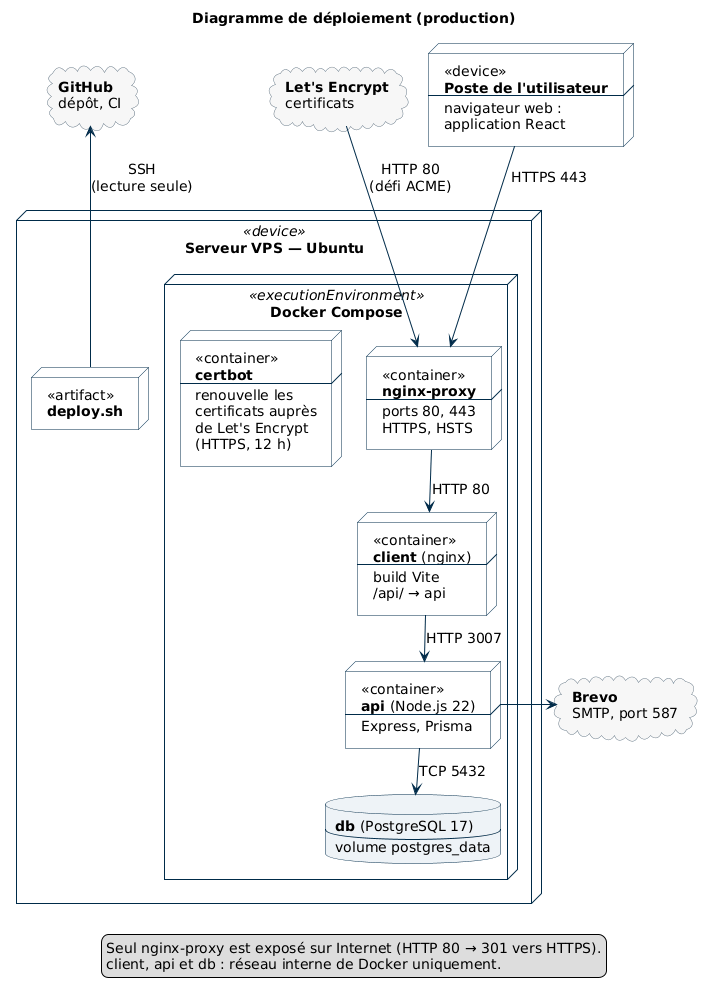
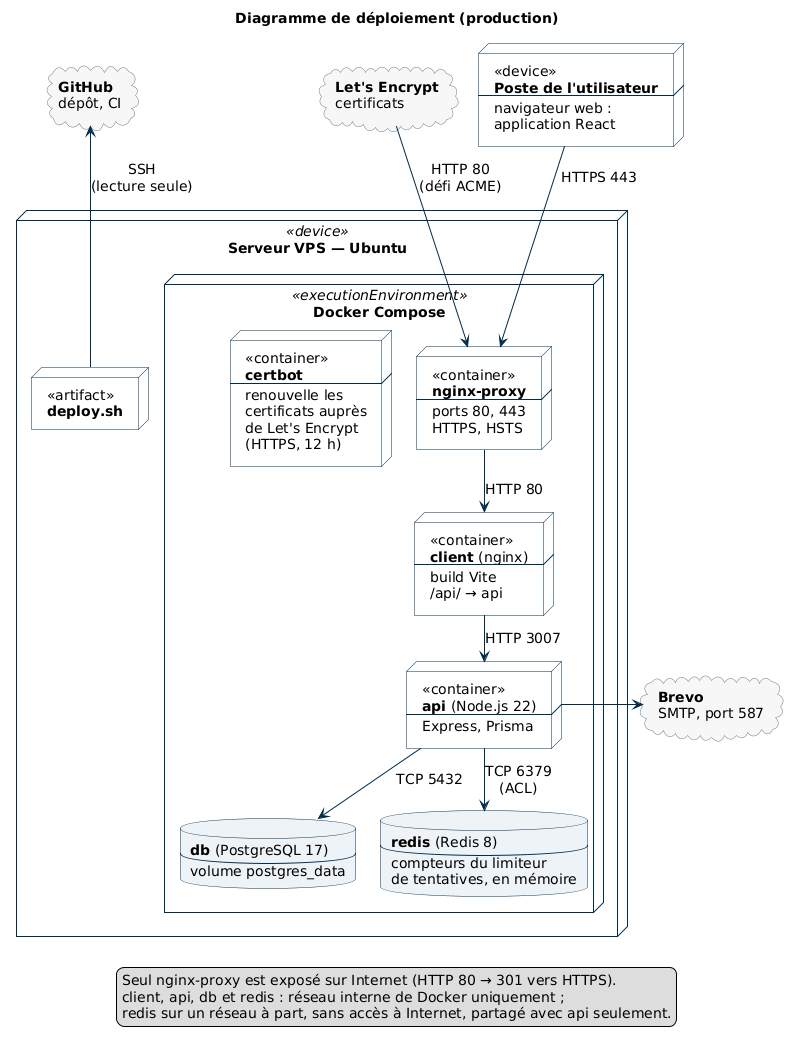
chore(infra): run Redis in dev, prod, CI and load test
- docker-compose (dev and prod): redis service (redis:8.10.3-alpine)
  started by redis/start.sh, on an internal network shared with the API
  only, no published port, authenticated healthcheck; the API waits for
  it and gets REDIS_URL and REDIS_PASSWORD (required in .env).
- CI: throwaway Redis started with the same image, script and ACL
  before the API tests; job timeout of 15 minutes; ShellCheck also
  covers redis/*.sh.
- Load test: throwaway redis-load service.
- deploy.sh: checks REDIS_PASSWORD is set in .env without reading its
  value, and waits for Redis to be healthy after the restart; three new
  test scenarios (24 scenarios, 82 checks).
- docker:start runs node with exec so it receives Docker's SIGTERM and
  shuts down cleanly (it was killed after the timeout before).
- Docs: deployment procedure for 0.9.6 with read-only pre-checks and
  rollback, Redis key model and access security, tests, README,
  CHANGELOG, deployment diagram.

Changed region(s): [[0.0309, 0.0, 0.9874, 0.997], [0.0, 0.2181, 0.216, 0.9035]]

diff --git a/docs/tests.md b/docs/tests.md
@@ -2,14 +2,14 @@
 
 Ce document décrit comment l'application est testée : la stratégie, la façon de lancer les tests, ce que chaque test couvre (matrice), les tests de sécurité et le cahier de recette.
 
-**État au 10/11/2026** : 168 tests automatisés de l'application et 21 scénarios du script de déploiement, tous verts, lancés sur chaque pull request par la CI.
+**État au 09/11/2026 (0.9.6)** : 173 tests automatisés de l'application et 24 scénarios du script de déploiement, tous verts, lancés sur chaque pull request par la CI.
 
 | Ensemble | Outil | Tests |
 |---|---|---|
 | API — unitaires (dont fuzzing) | Vitest + fast-check | 25 |
-| API — intégration (dont sécurité et fuzzing) | Vitest + Supertest + PostgreSQL | 92 |
+| API — intégration (dont sécurité et fuzzing) | Vitest + Supertest + PostgreSQL + Redis | 97 |
 | Client — composants, services, fonctions | Vitest + Testing Library (jsdom) | 51 |
-| Script de déploiement | Bash, doubles de `git`, `docker` et `curl` | 21 scénarios (69 vérifications) |
+| Script de déploiement | Bash, doubles de `git`, `docker` et `curl` | 24 scénarios (82 vérifications) |
 | Recette (tests d'acceptation) | navigateur, cahier ci-dessous | 9 parcours |
 | Charge | k6, image de production de l'API, en local | 2 scénarios |
 
@@ -33,7 +33,8 @@ Ce document décrit comment l'application est testée : la stratégie, la façon
 - base dédiée `lapince_test`, jamais la base de dev : la suite refuse de démarrer si `DATABASE_URL` ne contient pas `_test` ([tests/setup/integration.ts](../apps/api/tests/setup/integration.ts)) ;
 - aucun email réel : le transporteur SMTP est remplacé par un double dans tous les fichiers ;
 - chaque fichier supprime les comptes qu'il a créés (et leurs données, en cascade) ;
-- emails de test uniques (horodatés) : les fichiers ne se gênent pas entre eux.
+- emails de test uniques (horodatés) : les fichiers ne se gênent pas entre eux ;
+- compteurs du limiteur dans un vrai Redis, sous un préfixe tiré au hasard pour chaque fichier (`rl:test:<uuid>:`, [tests/setup/rate-limit-prefix.ts](../apps/api/tests/setup/rate-limit-prefix.ts)) : les fichiers tournent en parallèle depuis la même adresse sans partager de compteur ; les clés expirent seules, aucune suppression (jamais de `FLUSHALL`).
 
 ---
 
@@ -53,11 +54,13 @@ echo "CREATE DATABASE lapince_test;" | docker compose exec -T db sh -c 'psql -U 
 docker compose exec api npm run test:db:setup      # migrations + seed des catégories
 ```
 
+Les tests d'intégration utilisent aussi Redis (service `redis`, `REDIS_URL` et `REDIS_PASSWORD` du conteneur `api`), sous leurs propres préfixes : ils ne touchent pas aux compteurs du développement.
+
 Le code est copié dans l'image au build : après une modification, `docker compose up -d --build api` (ou `client`) avant de relancer les tests, ou `docker compose watch` pendant le développement.
 
 ### Test de charge
 
-En local seulement, jamais en production : l'**image de production** de l'API sur une base jetable `lapince_load_test`, et k6 1.4.0 ([apps/api/tests/load](../apps/api/tests/load)). Deux scénarios successifs de 70 s (montée à 50 utilisateurs virtuels, palier, descente), une seule session :
+En local seulement, jamais en production : l'**image de production** de l'API sur une base jetable `lapince_load_test` et un Redis jetable, et k6 1.4.0 ([apps/api/tests/load](../apps/api/tests/load)). Deux scénarios successifs de 70 s (montée à 50 utilisateurs virtuels, palier, descente), une seule session :
 
 | Scénario | Ce qu'il éprouve | Requêtes | Erreurs | Latence médiane | p95 | p99 |
 |---|---|---|---|---|---|---|
@@ -65,6 +68,8 @@ En local seulement, jamais en production : l'**image de production** de l'API su
 | `categories_differentes` | usage courant : chacun sur sa catégorie | 59 519 dépenses | 0 | 57 ms | **62 ms** | 65 ms |
 
 Mesure du 10/11/2026 sur le poste de développement (Docker Desktop, Windows 11). Seuils : moins de 1 % d'erreurs et tous les contrôles verts dans les deux scénarios ; p95 sous 500 ms pour l'usage courant. Tous respectés.
+
+Rejoué le 09/11/2026 avec Redis (0.9.6 : image de production, Redis jetable lancé par le même script qu'en production) : 63 143 requêtes, 0 erreur, tous les contrôles verts ; p95 de 65 ms pour l'usage courant, 851 ms pour le pire cas. Résultats équivalents : ces routes ne passent pas par le limiteur, seule la connexion initiale l'utilise.
 
 - **Exactitude sous charge** : à la fin, une seule alerte, au dépassement exact au centime (6 160,00 € = 6 170 dépenses de 1 € − 10 € de budget). Le verrou par utilisateur et par catégorie tient.
 - **Pire cas** : les écritures sur un même couple utilisateur-catégorie passent l'une après l'autre, par conception (environ 89 par seconde). Une file de 50 requêtes attend donc environ une demi-seconde. Une personne n'ajoute pas 50 dépenses à la seconde : la latence de ce scénario est rapportée, sans seuil.
@@ -75,10 +80,10 @@ Rejouer le test, depuis la racine du dépôt :
 ```bash
 L="-f docker-compose.yml -f apps/api/tests/load/compose.load.yml --profile load"
 echo "CREATE DATABASE lapince_load_test;" | docker compose exec -T db sh -c 'psql -U $POSTGRES_USER -d $POSTGRES_DB'
-docker compose $L up -d --build --no-deps api-load              # migrations + seed, puis l'API
+docker compose $L up -d --build --no-deps redis-load api-load   # Redis jetable ; migrations + seed, puis l'API
 docker compose $L exec api-load node tests/load/prepare-user.ts  # utilisateur vérifié
 docker compose $L run --rm --no-deps k6                         # résumé : apps/api/tests/load/results/
-docker compose $L rm -sf api-load
+docker compose $L rm -sf api-load redis-load
 echo "DROP DATABASE lapince_load_test;" | docker compose exec -T db sh -c 'psql -U $POSTGRES_USER -d $POSTGRES_DB'
 ```
 
@@ -109,10 +114,10 @@ Dans l'API : middlewares 97 %, validateurs 95 %, services 81 %, contrôleurs 70 
 | Job | Étapes |
 |---|---|
 | Formatage | Prettier sur tout le dépôt |
-| API | `npm ci` → **audit des dépendances** (`npm audit --omit=dev --audit-level=high`) → client Prisma → types → **unitaires** → migrations + seed sur une base PostgreSQL 17 jetable → **intégration** → build |
+| API | Redis jetable (même image, même script et mêmes ACL qu'en production) → `npm ci` → **audit des dépendances** (`npm audit --omit=dev --audit-level=high`) → client Prisma → types → **unitaires** → migrations + seed sur une base PostgreSQL 17 jetable → **intégration** → build |
 | Client | `npm ci` → **audit des dépendances** → lint → **tests** → types et build |
 | Images de production | construction des Dockerfiles de prod |
-| Script de déploiement | ShellCheck → tests du script ([deploy/deploy.test.sh](../deploy/deploy.test.sh)) |
+| Script de déploiement | ShellCheck (scripts de déploiement et de Redis) → tests du script ([deploy/deploy.test.sh](../deploy/deploy.test.sh)) |
 
 Les branches `dev` et `main` sont protégées : GitHub refuse le merge tant que tous ces jobs ne sont pas verts.
 
@@ -132,7 +137,7 @@ Chemins relatifs à `apps/api/tests/integration/` (API, intégration), `apps/api
 |---|---|---|---|---|
 | **Inscription** | — | `auth/register` (compte non vérifié, email envoyé, doublon 409, mot de passe faible 400) ; `auth/register-rate-limit` ; `validation-messages` (message sous le bon champ) ; `auth/email-case` (minuscules, doublon de casse refusé) | `RegisterForm` (confirmation différente refusée sans appel, erreur générale) | P1 |
 | **Vérification de l'email** | — | `auth/register` (jeton émis) ; `auth/session-tokens` (seule l'empreinte du jeton en base, lien à usage unique, jeton en double dans l'adresse → 400) | `VerifyEmailPage` (sans jeton, jeton accepté, jeton refusé) | P1 |
-| **Connexion, déconnexion, sessions** | — | `auth/login-rate-limit-per-ip` (un compteur par visiteur derrière les proxys) ; `auth/multi-device-sessions` ; `auth/session-limit` (5 sessions max) ; `auth/session-tokens` (seule l'empreinte du jeton en base, jeton déjà utilisé refusé, 10 rafraîchissements simultanés → une seule session) ; `auth/cookies-production` (`Secure`, `SameSite=Lax`, `HttpOnly`) ; `auth/email-case` (connexion en majuscules) | `apiClient` (401 → rafraîchissement → requête rejouée, un seul rafraîchissement pour deux 401) ; `lib/bfcache` (page privée non réaffichée après déconnexion) | P2 |
+| **Connexion, déconnexion, sessions** | — | `auth/login-rate-limit-per-ip` (un compteur par visiteur derrière les proxys) ; `auth/rate-limit-redis` (compteur créé dans Redis avec une durée de vie de 15 min, `Retry-After`, connexion réussie non comptée sans effacer les échecs, compteur partagé par deux instances de l'API) ; `auth/rate-limit-redis-down` (Redis coupé : requêtes servies, jamais 429 ni 500, incident journalisé) ; `auth/multi-device-sessions` ; `auth/session-limit` (5 sessions max) ; `auth/session-tokens` (seule l'empreinte du jeton en base, jeton déjà utilisé refusé, 10 rafraîchissements simultanés → une seule session) ; `auth/cookies-production` (`Secure`, `SameSite=Lax`, `HttpOnly`) ; `auth/email-case` (connexion en majuscules) | `apiClient` (401 → rafraîchissement → requête rejouée, un seul rafraîchissement pour deux 401) ; `lib/bfcache` (page privée non réaffichée après déconnexion) | P2 |
 | **Mot de passe oublié** | — | `auth/password-reset` (réponse identique compte connu ou non, lien 30 min, seul le hash du jeton en base, usage unique, sessions fermées, lien expiré, mot de passe faible) | — | P3 |
 | **Profil et compte (paramètres)** | — | `users/profile-reauth` (mot de passe actuel exigé pour changer mot de passe ou email, sessions fermées) ; `users/account-deletion` (compte et toutes ses données supprimés en cascade, session fermée, données d'un autre intactes, 401 sans session) ; `auth/email-case` ; `validation-messages` | — | P4 |
 | **Dépenses et revenus** | — | `transactions/security` ; `transactions/description` (intitulé facultatif) ; `transactions/order` (ordre stable, même jour) ; `transactions/date-filter` (période avec début et fin, début seul, fin seul) ; `amounts` (au centime, < 10 milliards) ; `validation-messages` | `transactionApi` (montants convertis, pagination) ; `lib/transaction` (libellé) ; `lib/sort` ; `AmountInputs` (saisie au centime) | P5 |
@@ -156,7 +161,9 @@ Chemins relatifs à `apps/api/tests/integration/` (API, intégration), `apps/api
 | Montant valide qui ferait déborder un calcul | `budgets/alert-consistency` | deux dépenses maximales → 201 et alerte exacte (19 999 999 999,97 €) ; dépassement au-delà de la borne de la base → 400 explicite, rien n'est enregistré |
 | Image arbitraire en photo de profil (pistage, contenu choisi par un tiers) | `users/avatar` | adresse étrangère, `javascript:`, paramètres ajoutés → 400, à l'inscription comme au profil ; seul l'avatar DiceBear construit par le client est accepté |
 | Navigation au clavier (RGAA) | `CategorySelect`, `TransactionSheet`, `AlertPopup` (client) | aucun élément masqué atteignable avec Tab (liste de catégories fermée, feuille des transactions fermée : `inert`) ; feuille ouverte au clavier ; Échap referme la liste ; contour de focus visible partout (règle globale) |
-| Force brute | `auth/login-rate-limit-per-ip`, `auth/register-rate-limit` | 429 au-delà de la limite, par visiteur |
+| Force brute | `auth/login-rate-limit-per-ip`, `auth/register-rate-limit`, `auth/rate-limit-redis` | 429 au-delà de la limite, par visiteur, avec le temps restant (`Retry-After`) ; compteur commun à toutes les instances de l'API, conservé quand elle redémarre |
+| Contournement du limiteur en se connectant à son propre compte | `auth/rate-limit-redis` | une connexion réussie ne compte pas, mais n'efface pas les échecs : après 9 échecs et 1 succès, il reste 9 échecs comptés, et le 11e essai est refusé |
+| Panne du stockage des compteurs | `auth/rate-limit-redis-down` | Redis coupé : l'application reste utilisable (aucun 429 ni 500), chaque incident est journalisé |
 | Prise de contrôle du compte | `users/profile-reauth` | mot de passe actuel exigé ; sessions fermées après changement |
 | Énumération des comptes | `auth/password-reset` | même réponse que l'email existe ou non |
 | Vol des jetons en base | `auth/password-reset`, `auth/session-tokens` | seule l'empreinte SHA-256 des jetons est stockée (réinitialisation, session, confirmation d'email) ; liens à usage unique |
@@ -171,7 +178,8 @@ Chemins relatifs à `apps/api/tests/integration/` (API, intégration), `apps/api
 **Contre-épreuves** (dans le conteneur seulement, fichiers restaurés ensuite → verts) :
 - 30/10/2026 : filtre par utilisateur retiré du service des dépenses et contrôle d'audience retiré du middleware → 4 tests de `transactions/security` rouges ;
 - 31/10/2026 : jeton de session présenté non consommé lors de la rotation → « jeton déjà utilisé » et « rafraîchissements simultanés » rouges ;
-- 01/11/2026 : suppression du compte neutralisée dans le contrôleur → « supprime le compte et toutes ses données » rouge (l'utilisateur existe encore).
+- 01/11/2026 : suppression du compte neutralisée dans le contrôleur → « supprime le compte et toutes ses données » rouge (l'utilisateur existe encore) ;
+- 09/11/2026 : `skipSuccessfulRequests` retiré du limiteur de connexion → « ne compte pas une connexion réussie » rouge (10 échecs comptés au lieu de 9) ; `passOnStoreError` à `false` → « Redis indisponible » rouge (500 au lieu de 400). Avant le passage à Redis, 4 des 5 tests de `auth/rate-limit-redis*` étaient rouges (compteur absent de Redis, deux instances qui comptent chacune de leur côté, 429 quand Redis est coupé).
 
 ---
 

diff --git a/docs/deploiement-serveur.md b/docs/deploiement-serveur.md
@@ -21,12 +21,14 @@ En résumé :
 ```
 Internet ──► nginx-proxy (:80, :443) ──► client (nginx, fichiers du build Vite)
                  │                          └── /api/ ──► api (:3007) ──► db (PostgreSQL)
+                 │                                            └──────────► redis (réseau interne à part)
                  └── /.well-known/acme-challenge/ ◄── certbot (renouvellement HTTPS)
 ```
 
 | Service | Rôle |
 |---|---|
 | `db` | PostgreSQL 17, données dans le volume `postgres_data` |
+| `redis` | Redis 8 : compteurs du limiteur de tentatives de l'API (connexion, inscription, session, mot de passe oublié). Sur un réseau Docker interne, partagé avec `api` seulement, sans accès à Internet ; aucun port publié. Un seul utilisateur, `lapince_app`, limité aux commandes du limiteur et aux clés `rl:*` ; `default` désactivé ([redis/start.sh](../redis/start.sh)). Aucune persistance : un redémarrage remet les compteurs à zéro (fenêtres de 15 min à 1 h) |
 | `api` | API compilée (`node dist/…`). Au démarrage : `prisma migrate deploy` (applique les migrations versionnées non encore jouées), puis seed des catégories |
 | `client` | nginx qui sert le front et relaie `/api/` vers `api` |
 | `nginx-proxy` | Seul service exposé (ports 80 et 443). HTTP → HTTPS, `www` → domaine nu. Recharge sa configuration toutes les 6 h pour servir un certificat renouvelé |
@@ -51,9 +53,19 @@ DATABASE_URL=postgresql://<POSTGRES_USER>:<POSTGRES_PASSWORD>@db:5432/<POSTGRES_
 FRONTEND_URL=https://mehdicherki.fr
 ALLOWED_ORIGINS=https://mehdicherki.fr
 VITE_API_BASE_URL=/api
+REDIS_PASSWORD=<valeur générée, voir ci-dessous>
 ```
 
 Les ports locaux (`*_LOCAL_PORT`) ne servent pas en prod : seul `nginx-proxy` est exposé.
+
+`REDIS_PASSWORD` (depuis la 0.9.6) : mot de passe de l'utilisateur Redis `lapince_app`, propre au serveur, jamais réutilisé ailleurs. Le générer sur le serveur, sans l'afficher, puis l'ajouter au `.env` :
+
+```bash
+printf 'REDIS_PASSWORD=%s\n' "$(openssl rand -base64 32)" >> .env
+grep -c '^REDIS_PASSWORD=.' .env   # 1 : présent une seule fois (la valeur n'est pas affichée)
+```
+
+Sans lui, aucune commande `dc` ne démarre (« REDIS_PASSWORD manquant dans .env ») et `deploy.sh` s'arrête dès ses préconditions. Seul Redis et l'API le lisent : Redis l'écrit au démarrage dans un fichier d'ACL lisible par son seul utilisateur, jamais sur la ligne de commande. `REDIS_URL` n'est pas dans le `.env` : `redis://redis:6379`, fixé dans `docker-compose.prod.yml`.
 
 > Ce document décrit le serveur **existant**. L'installation complète d'un nouveau serveur (Docker, premier certificat) n'est pas décrite ici, car elle n'a pas été rejouée depuis la mise en place.
 
@@ -75,12 +87,12 @@ cd /opt/lapince
 
 | Étape | Ce que fait le script | Arrêt si |
 |---|---|---|
-| 1. Préconditions | dossier, branche `main`, aucune modification locale, base démarrée ; liste les commits à déployer ; regarde si la base est inscrite aux migrations | une condition manque (ou rien à déployer : sortie normale) |
+| 1. Préconditions | dossier, branche `main`, aucune modification locale, `REDIS_PASSWORD` présent dans `.env` (sans afficher sa valeur), base démarrée ; liste les commits à déployer ; regarde si la base est inscrite aux migrations | une condition manque (ou rien à déployer : sortie normale) |
 | 2. Sauvegarde | `pg_dump` vers `~/backup-lapince-AAAA-MM-JJ-HHMM.sql` ; une fois vérifiée, seules les 5 sauvegardes les plus récentes sont gardées (`KEEP_BACKUPS=n ./deploy/deploy.sh` pour en garder un autre nombre) | fichier incomplet (ligne de fin de `pg_dump` absente) : rien n'est supprimé |
 | 3. Mise à jour | `git pull --ff-only` ; note le commit précédent, point de retour | historique divergent |
 | 4. Build | `dc build` | erreur de build |
 | 5. Inscription aux migrations | **une seule fois** (0.9.0) : contrôles 1 et 2 de l'encadré ci-dessous, puis inscription de `0_init` | un contrôle différent de 0 |
-| 6. Redémarrage | `dc up -d` ; l'API applique les migrations puis démarre ; le script attend « Server started » (2 min au plus) | l'API redémarre en boucle ou ne démarre pas |
+| 6. Redémarrage | `dc up -d` ; le script attend que Redis soit sain (1 min au plus) ; l'API applique les migrations, se connecte à Redis, puis démarre ; le script attend « Server started » (2 min au plus) | Redis n'est pas sain, l'API redémarre en boucle ou ne démarre pas |
 | 7. nginx | rechargement de `nginx-proxy` (sans lui : 502, incident de la 0.8.0) | — |
 | 8. Contrôles | tous les services démarrés ; base conforme au schéma ; site 200 ; API 401 | un contrôle échoue |
 
@@ -95,7 +107,7 @@ bash ~/deploy.sh --check
 bash ~/deploy.sh
 ```
 
-**Testé** : [deploy/deploy.test.sh](../deploy/deploy.test.sh) exécute le script avec des doubles de `git`, `docker` et `curl` : 21 scénarios (déploiement normal, sauvegarde incomplète, site en 502, API en boucle, inscription de la 0.9.0 avec des contrôles verts ou non, rétention des sauvegardes…), 69 vérifications, lancées par la CI à chaque PR, avec ShellCheck. Contre-épreuve : 6 sabotages du script (sans rechargement de nginx, sauvegarde non vérifiée, décimales non contrôlées, contrôle 1 sur le mauvais schéma, une sauvegarde de trop gardée, rétention avant la vérification), tous détectés. Exécuté en réel pour la 0.9.0 et la 0.9.1.
+**Testé** : [deploy/deploy.test.sh](../deploy/deploy.test.sh) exécute le script avec des doubles de `git`, `docker` et `curl` : 24 scénarios (déploiement normal, sauvegarde incomplète, site en 502, API en boucle, inscription de la 0.9.0 avec des contrôles verts ou non, rétention des sauvegardes, `REDIS_PASSWORD` absent ou vide, Redis non sain…), 82 vérifications, dont « le mot de passe de Redis n'apparaît ni à l'écran ni dans le journal », lancées par la CI à chaque PR, avec ShellCheck. Contre-épreuve : 6 sabotages du script (sans rechargement de nginx, sauvegarde non vérifiée, décimales non contrôlées, contrôle 1 sur le mauvais schéma, une sauvegarde de trop gardée, rétention avant la vérification), tous détectés. Exécuté en réel pour la 0.9.0 et la 0.9.1.
 
 ### Une seule fois : inscription de la base aux migrations (0.9.0)
 
@@ -126,6 +138,54 @@ Le script fait cette étape (5) tout seul. Commandes équivalentes, pour compren
 > Procédure **répétée le 30/10/2026** sur une copie restaurée de la sauvegarde de prod (section 5) : sans inscription, `migrate deploy` refuse (erreur P3005, base non vide) ; avec la copie dans l'état de la prod actuelle, contrôle d'écart à `0`, inscription, `migrate deploy` (« No pending migrations »), seed, écart final à `0`, données intactes.
 > Contrôle 1 vérifié le 30/10/2026 sur une base créée à l'état `0_init` : `0` avec le schéma de 673dcd2, `2` avec le schéma actuel ; puis inscription, migration de nommage appliquée par `migrate deploy`, écart final à `0`.
 > Procédure 0.9.0 complète **répétée le 30/10/2026** sur une copie de la sauvegarde de prod du jour (6 utilisateurs, 6 transactions, 3 budgets, 1 alerte) : contrôles 1 et 2 à `0`, `deploy` sans inscription refusé (P3005), inscription, migration de nommage appliquée, empreinte (MD5) du contenu de chaque table identique avant et après, sommes des montants identiques, seed, écart final à `0`. Copie et base jetable supprimées ensuite.
+
+### Une seule fois : arrivée de Redis (0.9.6)
+
+La 0.9.6 ajoute le service `redis`. Aucune migration de la base. Avant le déploiement :
+
+**1. Contrôles préalables, en lecture seule** (aucune adresse IP n'est affichée, seulement des nombres) :
+```bash
+cd /opt/lapince
+# a. Le limiteur compte par adresse de visiteur : nginx-proxy doit voir les adresses publiques.
+#    Requêtes des dernières 24 h reçues depuis une adresse privée, puis total :
+dc logs --no-log-prefix --since 24h nginx-proxy 2>/dev/null | awk '{print $1}' | grep -cE '^(10\.|172\.(1[6-9]|2[0-9]|3[01])\.|192\.168\.|127\.)'   # 0 attendu
+dc logs --no-log-prefix --since 24h nginx-proxy 2>/dev/null | wc -l
+# b. Mémoire libre (Redis en prend 32 Mo au plus)
+free -m
+# c. Nom du réseau interne libre
+docker network ls --format '{{.Name}}' | grep -c '^lapince_redis$'   # 0 attendu
+```
+**Si a n'affiche pas `0` : STOP.** Des visiteurs arrivent avec une adresse interne de Docker : ils partageraient un même compteur, et un seul d'entre eux pourrait bloquer la connexion de tous. À comprendre avant d'aller plus loin (c'est déjà le cas pour le limiteur en mémoire de la 0.9.5).
+
+**2. Mot de passe** : générer `REDIS_PASSWORD` et l'ajouter au `.env` (section 1).
+
+**3. Déployer avec le script de la 0.9.6**, qui contrôle déjà `REDIS_PASSWORD` et l'état de Redis (celui du serveur est encore celui de la 0.9.5). Comme pour la 0.9.0, le lancer depuis `origin/main` sans toucher au dépôt :
+```bash
+git fetch origin main && git show origin/main:deploy/deploy.sh > ~/deploy.sh
+bash ~/deploy.sh --check
+bash ~/deploy.sh
+```
+
+**4. Contrôles propres à Redis** :
+```bash
+dc ps redis                                     # Up (healthy)
+dc logs api --tail 30 | grep -c "Redis : connecté"   # 1 au moins
+dc port redis 6379 || echo "aucun port publié"  # « aucun port publié »
+dc exec -T redis redis-cli ping                 # NOAUTH Authentication required. (mot de passe obligatoire)
+# Compteur conservé quand l'API redémarre (corps vide → 400, tentative comptée) :
+curl -s -o /dev/null -D - -X POST https://mehdicherki.fr/api/auth/login -H 'Content-Type: application/json' -d '{}' | grep -i '^ratelimit-remaining'   # 9
+dc restart api && sleep 15
+curl -s -o /dev/null -D - -X POST https://mehdicherki.fr/api/auth/login -H 'Content-Type: application/json' -d '{}' | grep -i '^ratelimit-remaining'   # 8, et non 9
+```
+Ces deux essais comptent dans la limite de 10 connexions par 15 minutes de l'adresse du serveur, sans gêner les visiteurs.
+
+**Retour arrière** : aucune donnée de la base n'a changé, la sauvegarde n'est pas à restaurer.
+```bash
+git checkout <commit de la 0.9.5> && dc up -d --build --remove-orphans   # --remove-orphans : retire le conteneur redis
+dc exec nginx-proxy nginx -s reload
+docker network rm lapince_redis
+```
+`REDIS_PASSWORD` peut rester dans le `.env` : la 0.9.5 ne le lit pas.
 
 ### À la main (référence)
 
@@ -288,6 +348,15 @@ dc exec api npx prisma db seed     # relancer le seed
 dc down                            # tout arrêter (les données restent)
 ```
 
+Redis, avec l'utilisateur de l'API (le mot de passe vient de l'environnement du conteneur, il n'est ni tapé ni affiché). Lister les clés est refusé (`KEYS`, `SCAN` : NOPERM) ; on lit le compteur d'une adresse connue :
+
+```bash
+rcli() { dc exec -T redis sh -c 'REDISCLI_AUTH="$REDIS_PASSWORD" redis-cli --user lapince_app "$@"' sh "$@"; }
+rcli GET rl:login:203.0.113.10     # tentatives de connexion comptées pour cette adresse
+rcli PTTL rl:login:203.0.113.10    # temps restant avant remise à zéro, en millisecondes
+rcli DEL rl:login:203.0.113.10     # débloquer une personne bloquée à tort
+```
+
 > ⚠ **Jamais `dc down -v`** : `-v` supprime les volumes, donc la base de production.
 
 ---
@@ -297,6 +366,8 @@ dc down                            # tout arrêter (les données restent)
 **Service qui redémarre en boucle** : `dc logs <service> --tail 50`.
 
 **Erreur de connexion à la base** : dans `.env`, `DATABASE_URL` doit reprendre `POSTGRES_USER`, `POSTGRES_PASSWORD` et `POSTGRES_DB`, avec l'hôte `db`. Attendre que `db` soit `healthy` (`dc ps`).
+
+**Redis non sain ou API qui attend Redis** : `dc logs redis --tail 30` (« REDIS_PASSWORD manquant », « trop court », « aucun espace ») et `dc logs api --tail 30` (« Redis : erreur de connexion », par exemple `WRONGPASS` si le mot de passe a changé sans recréer les deux services : `dc up -d redis api`). Redis arrêté en cours de route : l'API continue de répondre, les tentatives ne sont plus limitées, et chaque requête concernée est journalisée (« error from store, allowing request without rate-limiting ») jusqu'à son retour ; elle s'y reconnecte seule.
 
 **Site injoignable en HTTPS** : vérifier la date d'expiration du certificat (section 4), puis `dc logs nginx-proxy --tail 30`.
 

diff --git a/docs/base-de-donnees.md b/docs/base-de-donnees.md
@@ -1,6 +1,6 @@
 # Base de données — La Pince
 
-Conception et description de la base : règles de gestion, modèles conceptuel (MCD), logique (MLD) et physique (MPD), dictionnaire de données, intégrité, sécurité.
+Conception et description de la base : règles de gestion, modèles conceptuel (MCD), logique (MLD) et physique (MPD), dictionnaire de données, intégrité, sécurité. La section 10 décrit le second stockage de l'application, clé/valeur : Redis, pour les compteurs du limiteur de tentatives.
 
 Sources de vérité : le schéma [apps/api/prisma/schema.prisma](../apps/api/prisma/schema.prisma) et les migrations SQL [apps/api/prisma/migrations/](../apps/api/prisma/migrations/). Ce document les explique ; en cas d'écart, ce sont eux qui font foi.
 
@@ -217,3 +217,42 @@ Contrainte `UNIQUE (user_id, category_id)` : une seule alerte par utilisateur et
 
 - **Seed** ([apps/api/prisma/seed.ts](../apps/api/prisma/seed.ts)) : les 39 catégories, créées ou mises à jour au démarrage de l'API (idempotent).
 - **Base de test** `lapince_test` : mêmes migrations et même seed, utilisée par les tests d'intégration, qui refusent de tourner sur une autre base ([docs/tests.md](tests.md)).
+
+---
+
+## 10. Stockage clé/valeur : Redis (limiteur de tentatives)
+
+Les compteurs du limiteur de tentatives (connexion, inscription, session, mot de passe oublié) sont dans **Redis 8**, base clé/valeur en mémoire, et non dans PostgreSQL ni dans la mémoire de l'API :
+
+- **Une donnée éphémère** : un nombre de tentatives, valable 15 minutes ou 1 heure. Redis efface la clé tout seul à la fin de sa durée de vie ; dans PostgreSQL, il faudrait écrire sur disque à chaque tentative, puis programmer le nettoyage des lignes périmées.
+- **Des opérations atomiques** : l'incrément et la pose de la durée de vie se font en une seule commande, sans course entre deux requêtes simultanées.
+- **Un compteur commun** : partagé par toutes les instances de l'API, et conservé quand elle redémarre, ce que la mémoire du processus ne permettait pas (0.9.5 et avant).
+
+**Modèle des clés** : `rl:<limiteur>:<adresse IP du visiteur>` → nombre de tentatives (entier), avec une durée de vie égale à la fenêtre.
+
+| Limiteur | Clé (exemple) | Limite | Fenêtre |
+|---|---|---|---|
+| connexion (seuls les échecs comptent) | `rl:login:203.0.113.10` | 10 | 15 min |
+| inscription | `rl:register:…` | 5 | 1 h |
+| rafraîchissement de session | `rl:refresh:…` | 30 | 15 min |
+| mot de passe oublié | `rl:forgot-password:…` | 5 | 1 h |
+| nouveau mot de passe | `rl:reset-password:…` | 10 | 15 min |
+
+**Opérations** (bibliothèque `rate-limit-redis`, par un script Lua exécuté d'un seul tenant ; code : [rate-limit.middleware.ts](../apps/api/src/middlewares/rate-limit.middleware.ts), client : [redis.ts](../apps/api/src/lib/redis.ts)) :
+
+| Opération | Commande Redis | Quand |
+|---|---|---|
+| Création | `SET clé 1 PX <fenêtre>` | première tentative de la fenêtre |
+| Lecture | `PTTL clé` (et `GET`) | à chaque tentative : temps restant, renvoyé dans `Retry-After` et `RateLimit-Reset` |
+| Mise à jour | `INCR clé` ; `DECR clé` | tentative suivante ; connexion réussie, qui ne compte pas |
+| Suppression | expiration automatique ; `DEL clé` | fin de la fenêtre ; à la main, pour débloquer quelqu'un ([deploiement-serveur.md](deploiement-serveur.md), section 6) |
+
+**Sécurité d'accès** ([redis/start.sh](../redis/start.sh)) :
+- authentification obligatoire : utilisateur `default` désactivé ; l'API se connecte avec l'utilisateur `lapince_app` et un mot de passe propre au serveur (`REDIS_PASSWORD`), jamais écrit dans une adresse ni sur une ligne de commande ;
+- moindre privilège : `lapince_app` n'accède qu'aux clés `rl:*` et aux seules commandes ci-dessus ; `FLUSHALL`, `CONFIG`, `KEYS`, `EVAL` ou `SHUTDOWN` lui sont refusés (`NOPERM`) ;
+- réseau : aucun port publié ; réseau Docker interne, partagé avec l'API seulement, sans accès à Internet ;
+- mémoire bornée à 32 Mo : si elle se remplit, Redis efface d'abord les compteurs les plus proches de leur fin (`volatile-ttl`) au lieu de refuser les écritures.
+
+**Données personnelles** : l'adresse IP en est une (RGPD). Elle n'est conservée qu'en mémoire (aucune persistance sur disque), au plus 1 heure, pour la seule protection contre les attaques par force brute (intérêt légitime).
+
+**Si Redis tombe** : l'application reste utilisable, les tentatives ne sont plus limitées pendant la panne, chaque incident est journalisé, et l'API se reconnecte seule (choix justifié dans le code et dans [tests.md](tests.md), section 4).

diff --git a/CHANGELOG.md b/CHANGELOG.md
@@ -52,6 +52,22 @@ Copie ce bloc en haut de la section `## [Non publié]` et remplis-le :
 
 ## [Non publié]
 
+### Ajouté
+- **Redis comme stockage du limiteur de tentatives** (connexion, inscription, rafraîchissement de session, mot de passe oublié, réinitialisation) : les compteurs sont partagés par toutes les instances de l'API et conservés quand elle redémarre (`rate-limit-redis` 6.0.2, client officiel `@redis/client` 6.3.1, module unique `src/lib/redis.ts`). Clé : préfixe du limiteur + adresse du visiteur (`rl:login:203.0.113.10`) ; création avec durée de vie (`SET … PX`), incrément (`INCR`), temps restant (`PTTL`, renvoyé dans `Retry-After`), expiration en fin de fenêtre (branche `feature/redis-rate-limit`)
+- **Service `redis`** (image `redis:8.10.3-alpine`) en développement et en production : aucun port publié, réseau Docker interne partagé avec l'API seulement et sans accès à Internet ; utilisateur `default` désactivé et utilisateur unique `lapince_app`, limité aux commandes du limiteur et aux clés `rl:*` (`FLUSHALL`, `CONFIG`, `KEYS`, `EVAL`… refusés) ; mot de passe `REDIS_PASSWORD` écrit au démarrage dans un fichier d'ACL lisible par Redis seul, jamais sur la ligne de commande ; sans persistance, mémoire bornée à 32 Mo avec éviction `volatile-ttl` ; healthcheck authentifié, l'API attend que Redis soit sain ([redis/start.sh](redis/start.sh))
+- **Tests contre un vrai Redis** (`auth/rate-limit-redis`, `auth/rate-limit-redis-down`, 5 tests) : durée de vie du compteur, `Retry-After`, connexion réussie non comptée, compteur partagé par deux instances de l'API, Redis coupé. Un préfixe de clés tiré au hasard par fichier de test, jamais de `FLUSHALL`. Redis jetable dans le job API de la CI (même script, mêmes ACL) ; 122 tests côté API (173 en tout)
+- `deploy.sh` : vérifie que `REDIS_PASSWORD` est présent dans `.env` (sans afficher sa valeur) et attend que Redis soit sain après le redémarrage ; 3 scénarios de test de plus (24 scénarios, 82 vérifications, dont « mot de passe jamais affiché ni journalisé »)
+
+### Modifié
+- **Connexion : seuls les échecs comptent** (10 par 15 minutes et par adresse) : une connexion réussie rend son essai, sans remettre le compteur à zéro, car un attaquant l'effacerait en se connectant à son propre compte entre deux essais
+- **Redis indisponible** : les requêtes passent sans limite plutôt que d'échouer (tout bloquer rendrait l'application inaccessible et déconnecterait tout le monde) ; chaque incident est journalisé et l'API se reconnecte seule ; au démarrage, l'API attend Redis
+- `express-rate-limit` 7.5.1 → 8.7.4 (exigé par `rate-limit-redis` 6, dont les versions 4.x plantaient si Redis était absent au démarrage et pouvaient compter deux fois une tentative) ; la v8 regroupe aussi les adresses IPv6 par /56, ce qui empêche de contourner la limite en changeant d'adresse dans son propre sous-réseau
+- Arrêt propre de l'API (SIGTERM, SIGINT) : plus de nouvelle connexion, puis fermeture de Redis ; `docker:start` lance `node` avec `exec`, pour qu'il reçoive bien le signal d'arrêt de Docker (auparavant tué d'office au bout du délai)
+
+### Infra
+- `REDIS_PASSWORD` obligatoire dans `.env` (`openssl rand -base64 32`) ; procédure de mise en production de la 0.9.6, contrôles préalables en lecture seule et retour arrière dans `docs/deploiement-serveur.md`
+- Diagramme de déploiement : conteneur `redis` ajouté
+
 ---
 
 ## [0.9.5] — 2026-11-10

diff --git a/README.md b/README.md
@@ -53,6 +53,7 @@ Fonctionnalités prévues dans le MVP :
 
 ### Base de données
 - PostgreSQL ([conception : MCD, MLD, dictionnaire de données](docs/base-de-donnees.md))
+- Redis (clé/valeur) : compteurs du limiteur de tentatives, partagés par toutes les instances de l'API ([redis/start.sh](redis/start.sh))
 
 ### DevOps
 - Docker
@@ -117,6 +118,8 @@ docker compose up -d --build
 docker compose watch   # optionnel : synchronise les fichiers modifiés dans les conteneurs
 ```
 
+`REDIS_PASSWORD` doit être renseigné dans `.env` (voir `.env.example`), sinon `docker compose` refuse de démarrer.
+
 Au démarrage, l'API applique les **migrations** de la base qui ne l'ont pas encore été (`prisma migrate deploy`, dossier `apps/api/prisma/migrations`), puis lance le seed des catégories.
 
 | Service | Adresse |
@@ -149,10 +152,10 @@ Chaque pull request est vérifiée par GitHub Actions ([.github/workflows/ci.yml
 | Job | Contrôles |
 |---|---|
 | Formatage | Prettier sur tout le dépôt (version figée) |
-| API | `npm ci`, audit des dépendances de production (aucune faille haute ou critique), client Prisma, types, tests unitaires, migrations + seed sur une base PostgreSQL jetable, tests d'intégration, build |
+| API | Redis jetable (même script et mêmes ACL qu'en production), `npm ci`, audit des dépendances de production (aucune faille haute ou critique), client Prisma, types, tests unitaires, migrations + seed sur une base PostgreSQL jetable, tests d'intégration, build |
 | Client | `npm ci`, audit des dépendances de production, lint, tests, types et build |
 | Images de production | construction des Dockerfiles de prod de l'API et du client |
-| Script de déploiement | ShellCheck, puis tests du script avec des doubles de `git`, `docker` et `curl` |
+| Script de déploiement | ShellCheck (déploiement et Redis), puis tests du script avec des doubles de `git`, `docker` et `curl` |
 
 Résultat d'une PR : onglet *Checks* sur GitHub, ou `gh pr checks <numéro>`.
 
@@ -207,8 +210,9 @@ Lapince/
 │   └── client/               # Front : React, Vite, Tailwind (TypeScript)
 ├── deploy/                   # Script de mise en production et ses tests
 ├── docs/                     # Base de données, tests, déploiement, conventions Git, commandes Docker
-├── docker-compose.yml        # Dev : db, api, client, studio (Prisma Studio)
-├── docker-compose.prod.yml   # Prod : db, api, client, nginx-proxy, certbot
+├── redis/                    # Démarrage de Redis : ACL, sans persistance, mémoire bornée
+├── docker-compose.yml        # Dev : db, redis, api, client, studio (Prisma Studio)
+├── docker-compose.prod.yml   # Prod : db, redis, api, client, nginx-proxy, certbot
 ├── nginx-proxy.conf          # Reverse proxy HTTPS de la prod
 ├── .env.example              # Modèle du fichier .env (à copier)
 └── CHANGELOG.md
